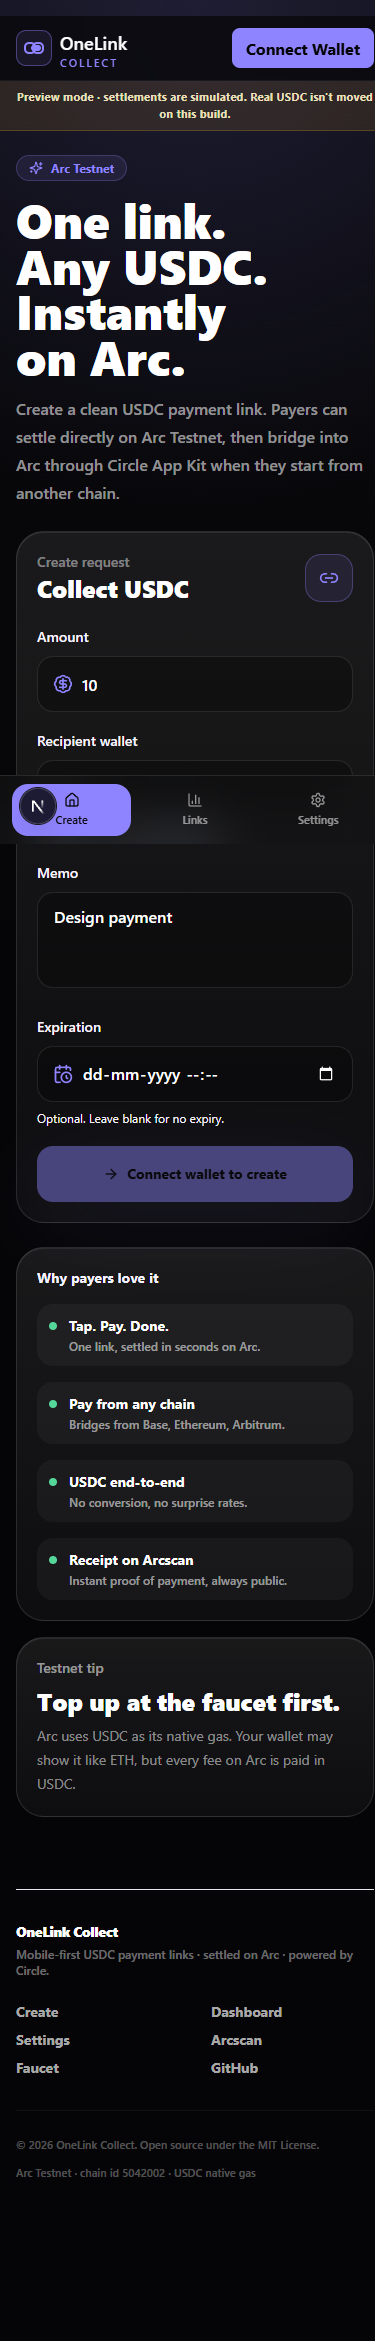
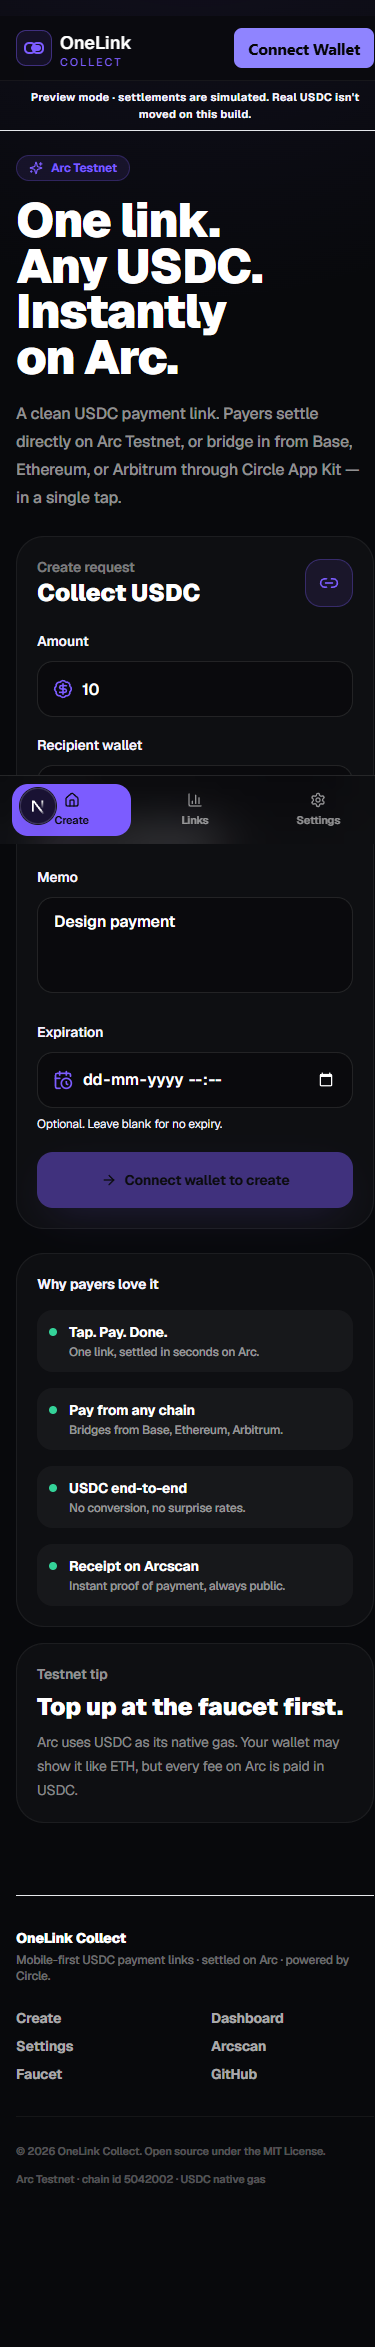
Switch typography to Geist Sans + quieter palette
- Adopt Geist Sans via geist package (variable font, used by Vercel /
  Linear / Resend) — replaces the system-font stack
- Refine palette: violet shifted to #7C5CFF, surfaces deepened to #08090C,
  border opacity dropped from 0.11 to 0.06 for a cleaner hairline
- Drop the double-radial-gradient background for a single, restrained
  glow at the top — Apple/Linear style
- Glass surface simplified: solid 2.5% tint + 6% border, no inset highlight
- Add tracking-tighter2 (-0.025em) to display headings on Home, Dashboard,
  Settings — gives the big type a real condensed-display feel instead of
  the default loose tracking
- Soften shadow-glow to -16px offset, less aggressive
- Updated hero copy on Create page to flow better with the new type

diff --git a/app/globals.css b/app/globals.css
@@ -5,7 +5,8 @@
 
 :root {
   color-scheme: dark;
-  background: #050507;
+  background: #08090c;
+  --font-feature-default: "ss01", "cv11";
 }
 
 * {
@@ -19,26 +20,39 @@ html {
 body {
   min-height: 100vh;
   margin: 0;
+  font-feature-settings: var(--font-feature-default);
+  /* Quiet, near-uniform background with a single subtle glow at the top.
+     Apple/Linear-style — restraint over decoration. */
   background:
-    radial-gradient(circle at 50% 0%, rgba(143, 132, 255, 0.16), transparent 32rem),
-    linear-gradient(180deg, #0a0a0d 0%, #050507 44%, #050507 100%);
-  color: #f7f4ff;
+    radial-gradient(
+      900px circle at 50% -10%,
+      rgba(124, 92, 255, 0.10),
+      transparent 60%
+    ),
+    #08090c;
+  color: #f5f4ff;
+  letter-spacing: -0.011em;
+  -webkit-font-smoothing: antialiased;
+  -moz-osx-font-smoothing: grayscale;
 }
 
 button,
 input,
 textarea {
   font: inherit;
+  letter-spacing: inherit;
 }
 
 ::selection {
-  background: rgba(143, 132, 255, 0.55);
+  background: rgba(124, 92, 255, 0.55);
+  color: #ffffff;
 }
 
+/* Glass replaced with a clean hairline surface — no inset highlight,
+   no double-stop gradient. One color, one border, done. */
 .glass {
-  background: linear-gradient(180deg, rgba(255, 255, 255, 0.08), rgba(255, 255, 255, 0.035));
-  border: 1px solid rgba(255, 255, 255, 0.11);
-  box-shadow: inset 0 1px 0 rgba(255, 255, 255, 0.08);
+  background: rgba(255, 255, 255, 0.025);
+  border: 1px solid rgba(255, 255, 255, 0.06);
 }
 
 .text-balance {

diff --git a/tailwind.config.ts b/tailwind.config.ts
@@ -9,19 +9,29 @@ const config: Config = {
   theme: {
     extend: {
       colors: {
-        ink: "#050507",
-        panel: "#101016",
-        panel2: "#171523",
-        line: "rgba(255,255,255,0.11)",
-        violet: "#8f84ff",
-        mint: "#55d79a",
-        ash: "#a4a1ad",
+        // Surface
+        ink: "#08090C",
+        panel: "#13141B",
+        panel2: "#1B1D27",
+        line: "rgba(255,255,255,0.08)",
+
+        // Brand / accent
+        violet: "#7C5CFF",
+        "violet-soft": "#A89BFF",
+        cyan: "#5AE3FF",
+        mint: "#34D399",
+        amber: "#FBBF24",
+        ash: "#9CA1B0",
       },
       boxShadow: {
-        glow: "0 24px 80px rgba(143, 132, 255, 0.2)",
+        // Subtle violet glow, Apple-restrained — used only on primary CTAs.
+        glow: "0 14px 40px -16px rgba(124, 92, 255, 0.55)",
+        "glow-sm": "0 8px 24px -12px rgba(124, 92, 255, 0.5)",
+        hairline: "inset 0 1px 0 rgba(255,255,255,0.06)",
       },
       fontFamily: {
         sans: [
+          "var(--font-geist-sans)",
           "-apple-system",
           "BlinkMacSystemFont",
           "SF Pro Display",
@@ -30,6 +40,10 @@ const config: Config = {
           "system-ui",
           "sans-serif",
         ],
+      },
+      letterSpacing: {
+        tightish: "-0.012em",
+        tighter2: "-0.025em",
       },
     },
   },

diff --git a/components/create-link-form.tsx b/components/create-link-form.tsx
@@ -143,12 +143,12 @@ export function CreateLinkForm() {
             Arc Testnet
           </Pill>
           <div>
-            <h1 className="max-w-2xl text-balance text-5xl font-black leading-[0.95] tracking-normal text-white sm:text-6xl">
+            <h1 className="max-w-2xl text-balance text-5xl font-black leading-[0.95] tracking-tighter2 text-white sm:text-6xl">
               One link. Any USDC. Instantly on Arc.
             </h1>
-            <p className="mt-4 max-w-xl text-base font-medium leading-7 text-white/55">
-              Create a clean USDC payment link. Payers can settle directly on Arc Testnet, then
-              bridge into Arc through Circle App Kit when they start from another chain.
+            <p className="mt-5 max-w-xl text-base font-medium leading-7 text-white/55">
+              A clean USDC payment link. Payers settle directly on Arc Testnet, or bridge in from
+              Base, Ethereum, or Arbitrum through Circle App Kit — in a single tap.
             </p>
           </div>
         </div>

diff --git a/app/layout.tsx b/app/layout.tsx
@@ -1,4 +1,5 @@
 import type { Metadata, Viewport } from "next";
+import { GeistSans } from "geist/font/sans";
 import "./globals.css";
 import { Providers } from "@/components/providers";
 
@@ -64,7 +65,7 @@ export default function RootLayout({
   children: React.ReactNode;
 }>) {
   return (
-    <html lang="en" suppressHydrationWarning>
+    <html lang="en" suppressHydrationWarning className={GeistSans.variable}>
       <body className="font-sans antialiased">
         <Providers>{children}</Providers>
       </body>

diff --git a/components/dashboard-client.tsx b/components/dashboard-client.tsx
@@ -115,7 +115,7 @@ export function DashboardClient() {
       <div className="flex items-start justify-between gap-4">
         <div>
           <Pill>Receiver dashboard</Pill>
-          <h1 className="mt-3 text-4xl font-black text-white">Your collection links</h1>
+          <h1 className="mt-3 text-4xl font-black tracking-tighter2 text-white">Your collection links</h1>
           <p className="mt-2 text-white/52">Status pulled from on-chain settlement and local cache.</p>
         </div>
         <Button

diff --git a/components/settings-client.tsx b/components/settings-client.tsx
@@ -66,7 +66,7 @@ export function SettingsClient() {
           <ShieldCheck className="size-3.5" />
           Testnet configuration
         </Pill>
-        <h1 className="mt-3 text-4xl font-black">Launch settings</h1>
+        <h1 className="mt-3 text-4xl font-black tracking-tighter2">Launch settings</h1>
         <p className="mt-2 text-white/52">Use these values when deploying and demoing OneLink.</p>
       </div>
 
